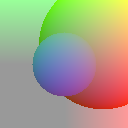
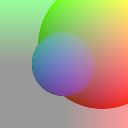
Add sampling.

diff --git a/src/main.rs b/src/main.rs
@@ -1,6 +1,7 @@
 #![deny(clippy::all)]
 
 use glam::{vec2, vec3a, vec4, Vec2, Vec4};
+use rand::Rng;
 use std::fs::File;
 use std::io::BufWriter;
 
@@ -18,14 +19,16 @@ use renderer::{CpuRenderer, Renderer};
 use scene::Scene;
 
 const WIDTH: u32 = 128;
+const WIDTH_F: f32 = WIDTH as f32;
 const HEIGHT: u32 = 128;
+const HEIGHT_F: f32 = HEIGHT as f32;
 
 fn main() -> Result<(), std::io::Error> {
 	let camera = Camera::Orthographic {
 		width: WIDTH,
 		height: HEIGHT,
 	};
-	let mut renderer = CpuRenderer::new(camera);
+	let mut renderer = CpuRenderer::new(camera, 128);
 
 	let mut scene = Scene::default();
 	scene.push(Primitive::Sphere(Sphere::new(vec3a(0., 0., -1.), 0.5)));
@@ -43,16 +46,19 @@ fn main() -> Result<(), std::io::Error> {
 		// vec4(0., 0., 0., 1.0)
 	};
 
+	let rng = rand::thread_rng();
+	let mut rng_iter = rng.sample_iter(rand::distributions::Uniform::<f32>::new(0., 1.));
+
 	for (index, pixel) in renderer.surface.iter_mut().enumerate() {
-		let centered_coord = {
+		for _ in 0..renderer.samples {
 			let mut coord = vec2(
-				(index as f32 / WIDTH as f32) % 1.,
-				(index as f32 / WIDTH as f32).floor() / HEIGHT as f32,
+				((index as f32 + rng_iter.next().unwrap_or_default()) / WIDTH_F) % 1.,
+				((index as f32 / WIDTH_F).floor() + rng_iter.next().unwrap_or_default()) / HEIGHT_F,
 			);
 			coord.y = coord.y * -1. + 1.; // Flip y axis
-			coord * 2.0 - vec2(1.0, 1.0) // Remap 0..1 to -1..1
-		};
-		*pixel += shader(pixel, centered_coord);
+			coord = coord * 2.0 - vec2(1.0, 1.0); // Remap 0..1 to -1..1
+			*pixel += shader(pixel, coord);
+		}
 	}
 
 	write_file(
@@ -68,7 +74,7 @@ where
 	let file = File::create(path)?;
 	let w = BufWriter::new(file);
 
-	let mut encoder = png::Encoder::new(w, WIDTH as u32, HEIGHT as u32);
+	let mut encoder = png::Encoder::new(w, WIDTH, HEIGHT);
 	encoder.set_color(png::ColorType::Rgba);
 	encoder.set_depth(png::BitDepth::Eight);
 

diff --git a/src/renderer.rs b/src/renderer.rs
@@ -13,15 +13,17 @@ pub trait Renderer {
 pub struct CpuRenderer {
 	pub camera: Camera,
 	pub surface: Vec<Vec4>,
+	pub samples: u16,
 	finished: bool,
 }
 
 impl CpuRenderer {
-	pub fn new(camera: Camera) -> Self {
+	pub fn new(camera: Camera, samples: u16) -> Self {
 		match camera {
 			Camera::Orthographic { width, height } | Camera::_Perspective { width, height } => Self {
 				camera,
 				surface: vec![Vec4::ZERO; width as usize * height as usize],
+				samples,
 				finished: false,
 			},
 		}
@@ -31,9 +33,7 @@ impl CpuRenderer {
 impl Renderer for CpuRenderer {
 	fn resize_surface(&mut self, width: u32, height: u32) {
 		self.finished = false;
-		self
-			.surface
-			.resize_with((width * height) as usize, || default());
+		self.surface.resize_with((width * height) as usize, default);
 		self.camera.resize(width, height);
 	}
 
@@ -46,11 +46,12 @@ impl Renderer for CpuRenderer {
 			.surface
 			.iter()
 			.flat_map(|color| {
+				let scaled_color = *color * (1. / self.samples as f32);
 				[
-					(color.x * 255.0) as u8,
-					(color.y * 255.0) as u8,
-					(color.z * 255.0) as u8,
-					(color.w * 255.0) as u8,
+					(scaled_color.x * 255.0) as u8,
+					(scaled_color.y * 255.0) as u8,
+					(scaled_color.z * 255.0) as u8,
+					(scaled_color.w * 255.0) as u8,
 				]
 				.into_iter()
 			})
